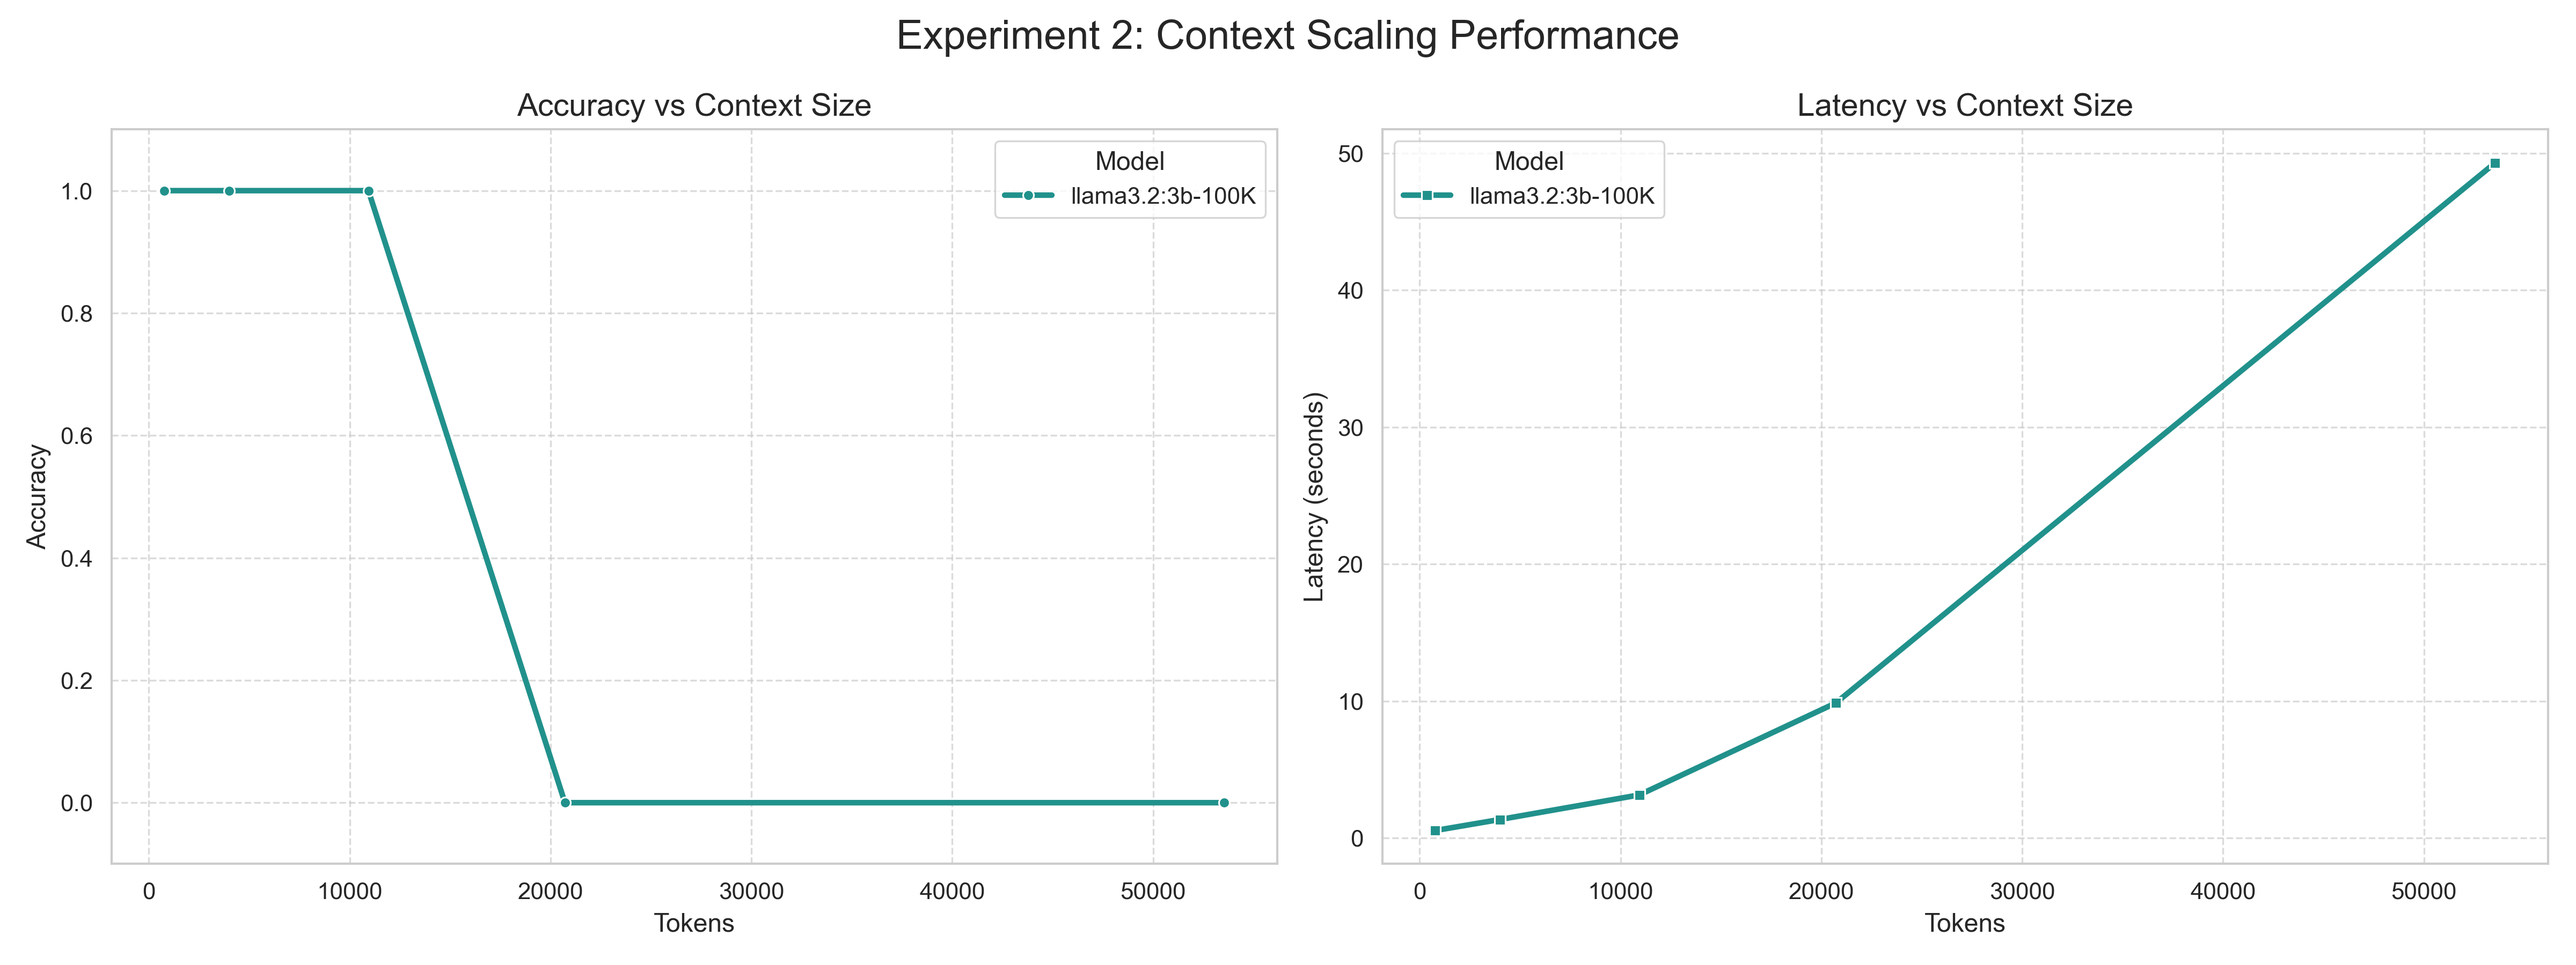
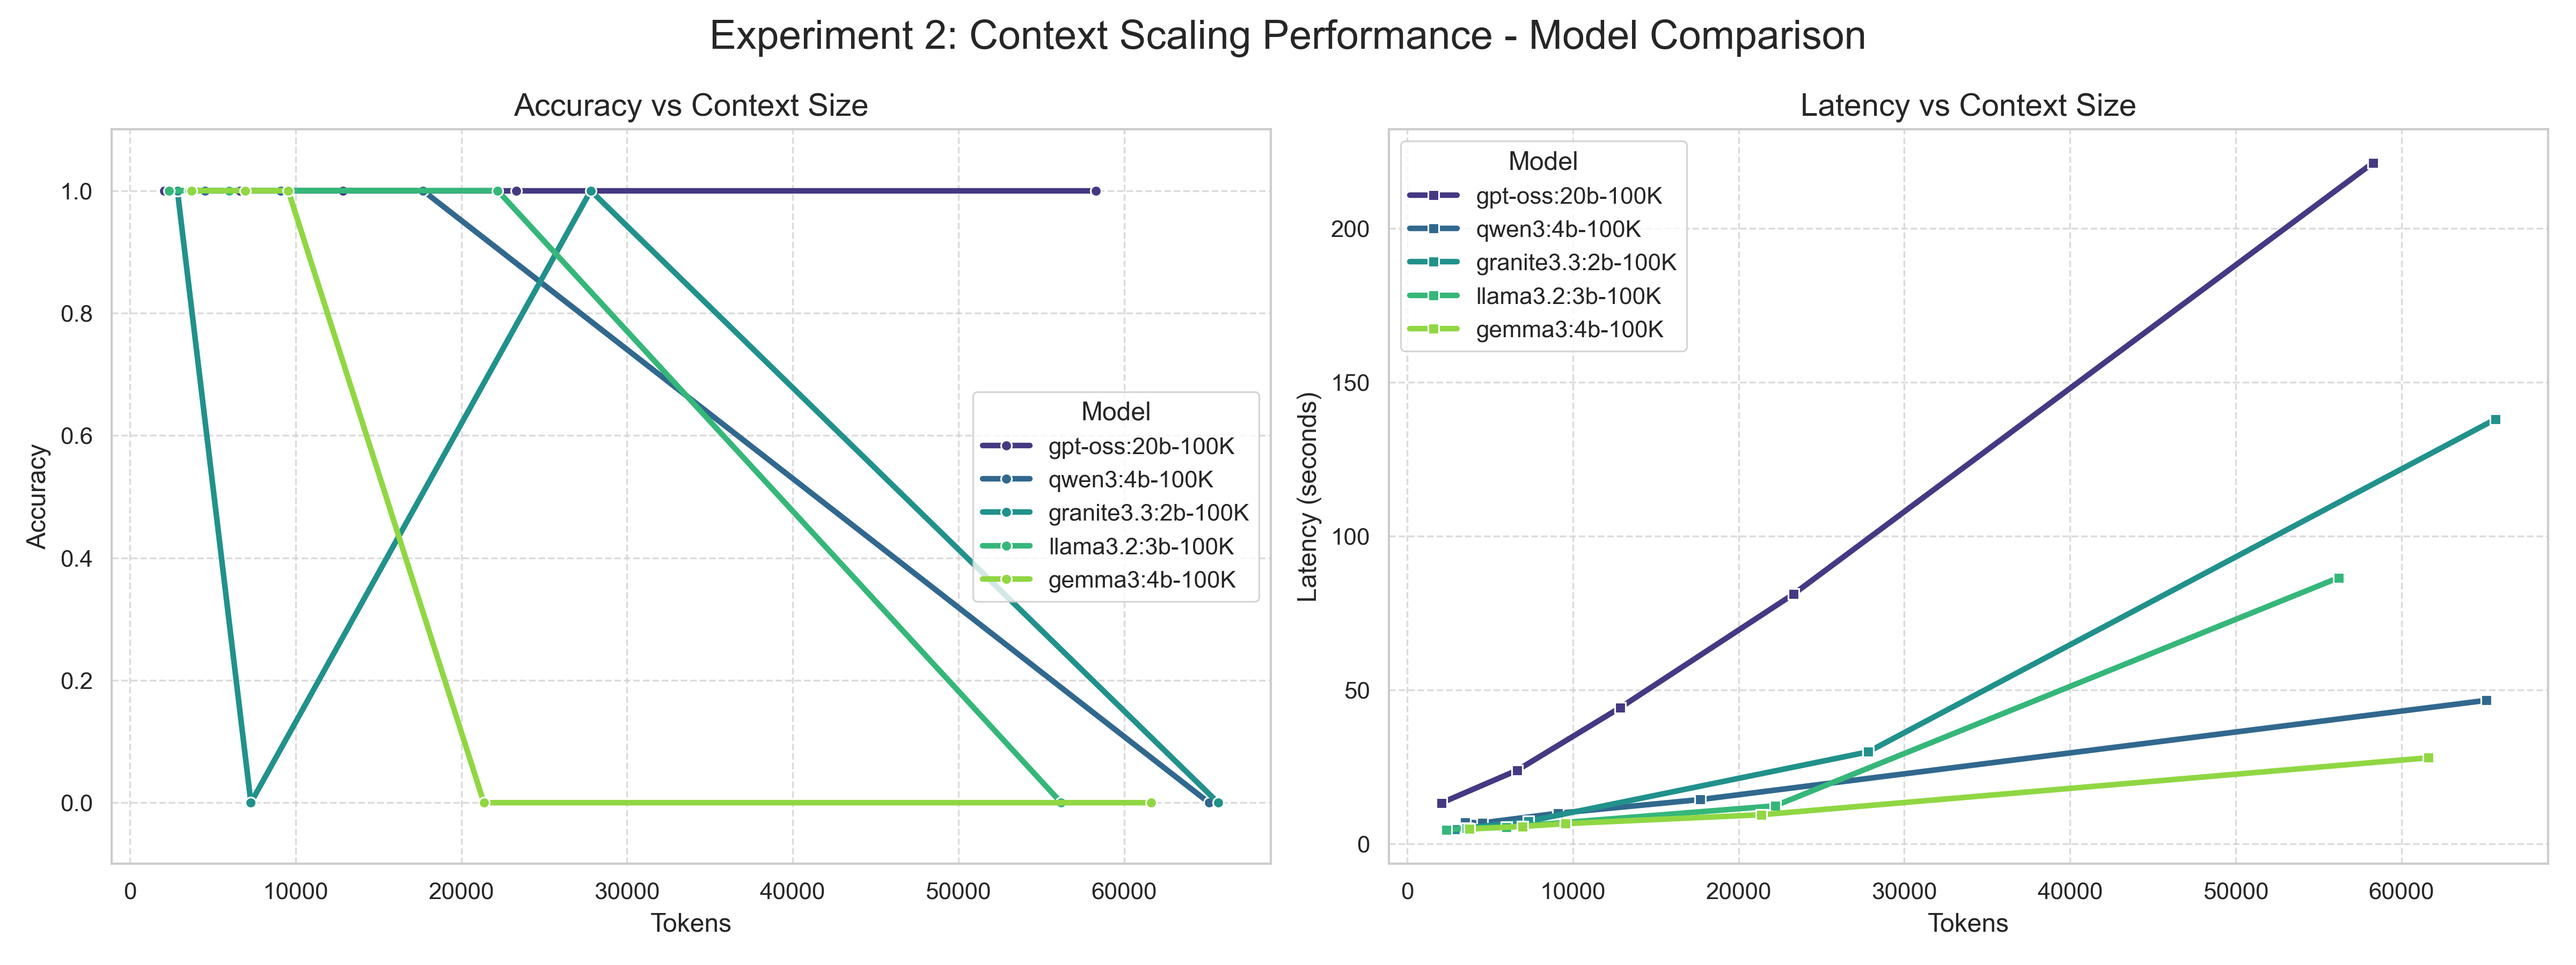
Remove outdated experiment results and context windows lab documentation; update plot titles for clarity in analysis

diff --git a/analyze_results.py b/analyze_results.py
@@ -43,7 +43,7 @@ def plot_exp1_needle(results):
     
     ax = sns.heatmap(pivot_df, annot=True, cmap="RdYlGn", vmin=0, vmax=1, fmt=".2f", 
                      linewidths=.5, cbar_kws={'label': 'Accuracy'})
-    plt.title("Experiment 1: 'Lost in the Middle' Analysis", fontsize=16, pad=20)
+    plt.title("Experiment 1: 'Lost in the Middle' Analysis - Model Comparison", fontsize=16, pad=20)
     plt.ylabel("Model Name")
     plt.xlabel("Fact Position")
     plt.tight_layout()
@@ -81,7 +81,7 @@ def plot_exp2_size(results):
     ax2.set_ylabel("Latency (seconds)")
     ax2.grid(True, linestyle='--', alpha=0.7)
     
-    plt.suptitle("Experiment 2: Context Scaling Performance", fontsize=18)
+    plt.suptitle("Experiment 2: Context Scaling Performance - Model Comparison", fontsize=18)
     plt.tight_layout()
     plt.savefig(os.path.join(config.PLOTS_DIR, "exp2_scaling.png"), dpi=300)
     plt.close()
@@ -123,7 +123,7 @@ def plot_exp3_rag(results):
     ax2.set_title("Accuracy Comparison (Higher is Better)", fontsize=14)
     ax2.set_ylim(0, 1.1)
     
-    plt.suptitle("Experiment 3: RAG vs Full Context", fontsize=18)
+    plt.suptitle("Experiment 3: RAG vs Full Context - Model Comparison", fontsize=18)
     plt.tight_layout()
     plt.savefig(os.path.join(config.PLOTS_DIR, "exp3_rag_comparison.png"), dpi=300)
     plt.close()
@@ -174,7 +174,7 @@ def plot_radar_summary(results):
         ax.plot(angles, values, linewidth=2, linestyle='solid', label=model, color=colors[idx])
         ax.fill(angles, values, color=colors[idx], alpha=0.1)
         
-    plt.title("Overall Model Capabilities", size=20, y=1.1)
+    plt.title("Overall Model Capabilities Comparison", size=20, y=1.1)
     plt.legend(loc='upper right', bbox_to_anchor=(0.1, 0.1))
     
     plt.tight_layout()
